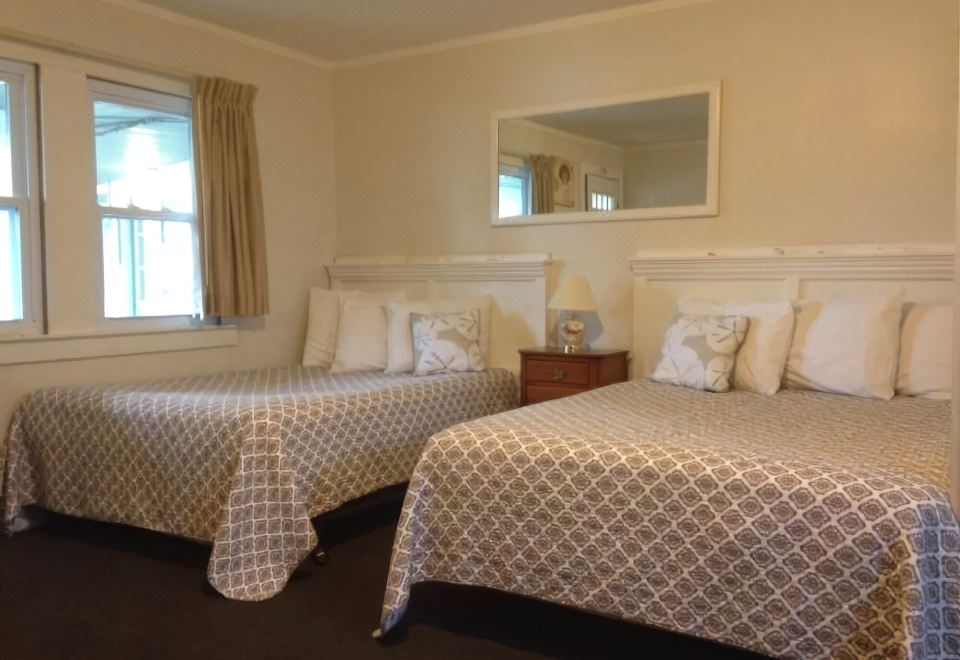
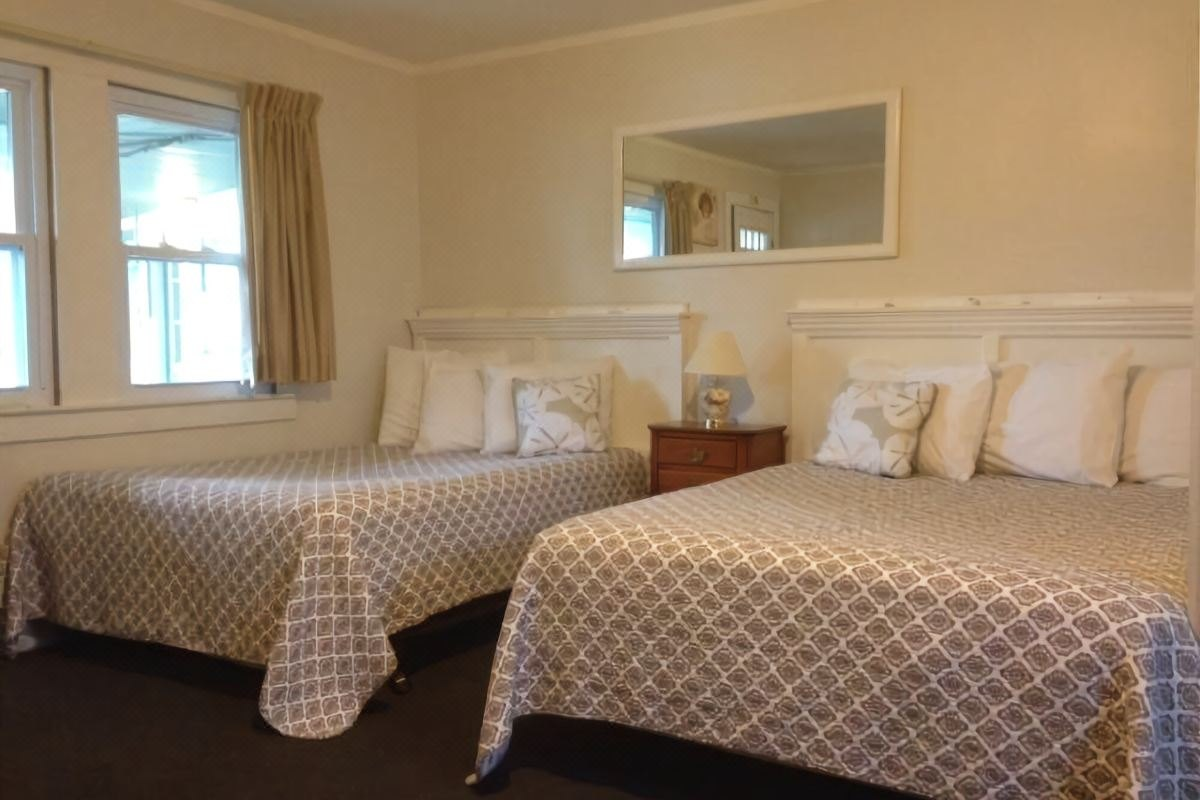
Add go-live domain wiring, reviews, policies, and sharper room media
Wire custom domain (CNAME, canonical/OG/sitemap), fix check-out and payment copy from the inn’s published policy, expand guest reviews, upgrade room/aerial photos, and pass optional analytics/Formspree env vars through the Pages build.

diff --git a/src/data.js b/src/data.js
@@ -12,6 +12,9 @@ export const SITE = {
   phoneHref: "tel:+16039261750",
   email: "seascapeinn@hotmail.com",
   website: "https://seascapeinnhamptonnh.com/",
+  /** Intended public URL once GitHub Pages + custom domain DNS are live. */
+  siteUrl: "https://seascapeinnhamptonnh.com",
+  githubPagesUrl: "https://jrallis988.github.io/Little-Lemon",
   bookingUrl: "https://guest.rezstream.com/search/seascape-inn",
   tripadvisorUrl:
     "https://www.tripadvisor.com/Hotel_Review-g46111-d667889-Reviews-Seascape_Inn_at_Plaice_Cove-Hampton_New_Hampshire.html",
@@ -28,9 +31,9 @@ export const SITE = {
     facebook: "https://www.facebook.com/seascape.inn.1",
   },
   checkIn: "3:00 PM",
-  checkOut: "11:00 AM",
+  checkOut: "10:00 AM",
   hours: "Front desk 8:30 AM – 10:00 PM",
-  /** Times above are typical; guests should confirm on their reservation. */
+  /** Times match the inn’s published policy; still confirm on your reservation. */
   typicalRateNote:
     "Use the live calendar below for exact pricing — seasonal ranges are a guide only.",
   trustLine: [
@@ -282,6 +285,20 @@ export const REVIEWS = [
     name: "Karine L.",
     detail: "TripAdvisor · Friends trip",
   },
+  {
+    id: "r4",
+    quote:
+      "We had our dog with us and most places near Hampton Beach aren’t dog friendly. Luckily we found the Seascape — small and dated, but it did the trick. We would stay here again.",
+    name: "Melissa M.",
+    detail: "TripAdvisor · Couple stay · Pet-friendly",
+  },
+  {
+    id: "r5",
+    quote:
+      "Awesome location, nice and helpful staff, clean rooms, great price. Shout out to Kelly who went above and beyond after we left a stuffed animal behind.",
+    name: "Guest",
+    detail: "Public guest review · Family stay",
+  },
 ];
 
 export const NEARBY = [
@@ -365,12 +382,12 @@ export const POLICIES = [
   {
     id: "checkin",
     title: "Check-in & out",
-    body: `Typical check-in from ${SITE.checkIn}; typical check-out by ${SITE.checkOut} EST — always match your confirmation. Front desk ${SITE.hours.replace("Front desk ", "")}.`,
+    body: `Check-in from ${SITE.checkIn}. Check-out by ${SITE.checkOut} EST (published inn policy — match your confirmation if it differs). Front desk ${SITE.hours.replace("Front desk ", "")}.`,
   },
   {
     id: "payment",
     title: "Payment & smoking",
-    body: "Major credit cards accepted. Any deposit or payment schedule is shown at online checkout and on your confirmation — ask the front desk if you need clarity. Non-smoking indoors with a designated outdoor smoking area.",
+    body: "Major credit cards accepted. Published policy is full charge at booking (no separate deposit) and charges are typically non-refundable — confirm current terms at checkout. Non-smoking indoors with a designated outdoor smoking area.",
   },
 ];
 
@@ -387,12 +404,12 @@ export const FAQ_SECTIONS = [
       {
         question: "What is your cancellation policy?",
         answer:
-          "Cancellation windows and any fees are listed on your booking confirmation and in the RezStream checkout flow. If you need to change or cancel, call the front desk as early as you can so we can walk through your options.",
+          "Published inn policy treats reservation charges as typically non-refundable. Always read the terms shown in RezStream checkout and on your confirmation, and call the front desk as early as you can if plans change.",
       },
       {
         question: "Is a deposit required to reserve a room?",
         answer:
-          "Payment or deposit terms (if any) appear during online checkout and on your confirmation. Amounts and timing can vary by dates and rate—confirm with the front desk if you are unsure.",
+          "Published inn policy is full charge for the reservation at booking (no separate deposit). Exact payment timing still appears at online checkout — confirm with the front desk if you are unsure.",
       },
       {
         question: "What forms of payment do you accept?",
@@ -412,7 +429,7 @@ export const FAQ_SECTIONS = [
     items: [
       {
         question: "What are your check-in and check-out times?",
-        answer: `Typical check-in is from ${SITE.checkIn}, and typical check-out is by ${SITE.checkOut}. Your confirmation is the source of truth if times differ for your reservation.`,
+        answer: `Published check-in is from ${SITE.checkIn}, and check-out is by ${SITE.checkOut} EST. Your confirmation is the source of truth if times differ for your reservation.`,
       },
       {
         question: "What is the minimum age to check in?",
@@ -615,11 +632,15 @@ export const PRIVACY_POLICY = {
 
 export const GALLERY = [
   {
+    src: asset("/images/seascape-aerial.jpg"),
+    alt: "Aerial view of Seascape Inn across from the Plaice Cove shoreline",
+  },
+  {
     src: asset("/images/seascape-photo2.jpg"),
     alt: "Sunrise over North Beach near Seascape Inn",
   },
   {
-    src: asset("/images/exterior-courtyard.jpg"),
+    src: asset("/images/exterior-courtyard-wide.jpg"),
     alt: "Seascape Inn courtyard and guest room balconies",
   },
   {
@@ -633,6 +654,10 @@ export const GALLERY = [
   {
     src: asset("/images/room-doubles.jpg"),
     alt: "Guest room with two beds at Seascape Inn",
+  },
+  {
+    src: asset("/images/room-queen.jpg"),
+    alt: "Bright coastal guest room with white bedding",
   },
   {
     src: asset("/images/nh-boardwalk.jpg"),

diff --git a/public/index.html b/public/index.html
@@ -12,7 +12,7 @@
       name="keywords"
       content="Seascape Inn, Hampton Beach motel, Plaice Cove, North Beach NH, pet friendly inn Hampton"
     />
-    <link rel="canonical" href="https://jrallis988.github.io/Little-Lemon/" />
+    <link rel="canonical" href="https://seascapeinnhamptonnh.com/" />
 
     <meta property="og:type" content="website" />
     <meta property="og:site_name" content="Seascape Inn" />
@@ -24,8 +24,11 @@
       property="og:description"
       content="Pet-friendly inn with beach across the street, gazebo lawn, and quiet North Beach stays. Check live rates on RezStream."
     />
-    <meta property="og:image" content="%PUBLIC_URL%/images/og-share.jpg" />
-    <meta property="og:url" content="https://jrallis988.github.io/Little-Lemon/" />
+    <meta
+      property="og:image"
+      content="https://seascapeinnhamptonnh.com/images/og-share.jpg"
+    />
+    <meta property="og:url" content="https://seascapeinnhamptonnh.com/" />
 
     <meta name="twitter:card" content="summary_large_image" />
     <meta name="twitter:title" content="Seascape Inn — Hampton NH Beach Stay" />
@@ -33,7 +36,10 @@
       name="twitter:description"
       content="Sleep by North Beach at Plaice Cove. Pet-friendly rooms steps from the sand."
     />
-    <meta name="twitter:image" content="%PUBLIC_URL%/images/og-share.jpg" />
+    <meta
+      name="twitter:image"
+      content="https://seascapeinnhamptonnh.com/images/og-share.jpg"
+    />
 
     <link rel="icon" href="%PUBLIC_URL%/icon.svg" type="image/svg+xml" />
     <link rel="icon" href="%PUBLIC_URL%/favicon-32.png" type="image/png" sizes="32x32" />

diff --git a/src/index.css b/src/index.css
@@ -810,7 +810,7 @@ p {
 
 @media (min-width: 900px) {
   .reviews__list {
-    grid-template-columns: repeat(3, 1fr);
+    grid-template-columns: repeat(auto-fit, minmax(240px, 1fr));
     gap: 2rem;
   }
 

diff --git a/README.md b/README.md
@@ -11,53 +11,66 @@ npm start
 
 Open [http://localhost:3000](http://localhost:3000).
 
-## Booking & rates
-
-- Live booking calendar (embedded + new tab): [RezStream](https://guest.rezstream.com/search/seascape-inn)
-- Seasonal ranges on the Rates section are a guide; exact prices come from RezStream
-- Inquiry form posts through [Formsubmit](https://formsubmit.co) to `seascapeinn@hotmail.com`
-  - The first submission may require confirming the email address once
-- Optional Formspree / analytics:
+Optional env (copy and fill what you need):
 
 ```bash
 cp .env.example .env
-# REACT_APP_FORMSPREE_ID=
-# REACT_APP_GA_MEASUREMENT_ID=
-# REACT_APP_PLAUSIBLE_DOMAIN=
+# REACT_APP_FORMSPREE_ID=xxxxxxxx        # optional Formspree instead of Formsubmit
+# REACT_APP_GA_MEASUREMENT_ID=G-XXXX     # optional Google Analytics 4
+# REACT_APP_PLAUSIBLE_DOMAIN=seascapeinnhamptonnh.com
 ```
 
 Analytics scripts load only after the visitor accepts analytics cookies.
+
+## Booking & rates
+
+- Live booking calendar: [RezStream](https://guest.rezstream.com/search/seascape-inn)
+- Seasonal ranges are a guide; exact prices come from RezStream
+- Inquiry form defaults to [Formsubmit](https://formsubmit.co) → `seascapeinn@hotmail.com`
+  - Send one real test inquiry from the live site
+  - Complete Formsubmit’s confirmation email the first time
 
 ## Launch checklist
 
 ### Important: do not overwrite the portfolio on `main`
 
-Repo `main` is the **Artistic Fountain** portfolio site. This motel app lives on `cursor/beach-motel-website-1cb8` (or a dedicated `seascape` branch). Merging this PR into `main` will conflict and would replace the portfolio — **do not merge for publish**.
+Repo `main` is the **Artistic Fountain** portfolio. This motel app lives on `cursor/beach-motel-website-1cb8` (or a dedicated `seascape` branch). **Do not merge this PR into `main` to publish.**
 
-### Must do to go live (GitHub Pages from the motel branch)
+### 1) Enable GitHub Pages
 
-1. Repo **Settings → Pages → Build and deployment → Source: GitHub Actions**
-2. Push (or re-run the workflow) on `cursor/beach-motel-website-1cb8` — CI builds, then deploys Pages from that branch only
-3. Site URL: `https://jrallis988.github.io/Little-Lemon/`
-4. Send one test inquiry and complete any Formsubmit confirmation email to `seascapeinn@hotmail.com`
+1. Open [Settings → Pages](https://github.com/jrallis988/Little-Lemon/settings/pages)
+2. Set **Source: GitHub Actions**
+3. Re-run the **CI and GitHub Pages** workflow on this branch  
+   Preview URL until DNS is cut over: `https://jrallis988.github.io/Little-Lemon/`
 
-Optional later: keep motel code on a long-lived `seascape` branch (workflow already deploys that name too) so you can rename away from the agent branch without touching `main`.
+### 2) Custom domain (optional but wired)
 
-### Optional custom domain
+This repo includes `public/CNAME` for `seascapeinnhamptonnh.com`.
 
-If you control `seascapeinnhamptonnh.com` (or a subdomain):
+1. In Pages settings, enter custom domain `seascapeinnhamptonnh.com` and enable HTTPS
+2. At your DNS host, point the domain at GitHub Pages (A/ALIAS/CNAME records GitHub shows)
+3. Only flip DNS when you are ready to replace the current WordPress site on that hostname
 
-1. Add a `CNAME` file in `public/` with the hostname
-2. In GitHub Pages settings, set the custom domain and enable HTTPS
-3. Add the DNS records GitHub shows
-4. Update canonical / Open Graph URLs in `public/index.html` and `public/sitemap.xml`
+Canonical / Open Graph / sitemap URLs already target `https://seascapeinnhamptonnh.com/`.
 
-### Verify with the inn
+### 3) Confirm inquiry email
 
-FAQ and policy copy uses soft language for breakfast, check-out, deposits, and cancellations. Confirm current front-desk practice and tighten wording once verified.
+Send a test booking inquiry and approve Formsubmit for `seascapeinn@hotmail.com`.
+
+### 4) Optional analytics / Formspree
+
+Add IDs in a local `.env` (or GitHub Actions secrets / repo Variables if you inject them at build time):
+
+| Variable | Purpose |
+| --- | --- |
+| `REACT_APP_GA_MEASUREMENT_ID` | Google Analytics 4 |
+| `REACT_APP_PLAUSIBLE_DOMAIN` | Plausible (example value in `.env.example`) |
+| `REACT_APP_FORMSPREE_ID` | Use Formspree instead of Formsubmit |
 
 ## Build
 
 ```bash
 npm run build
 ```
+
+Asset paths are relative (`homepage: "."`) so the build works on both the GitHub Pages project URL and the custom domain.
